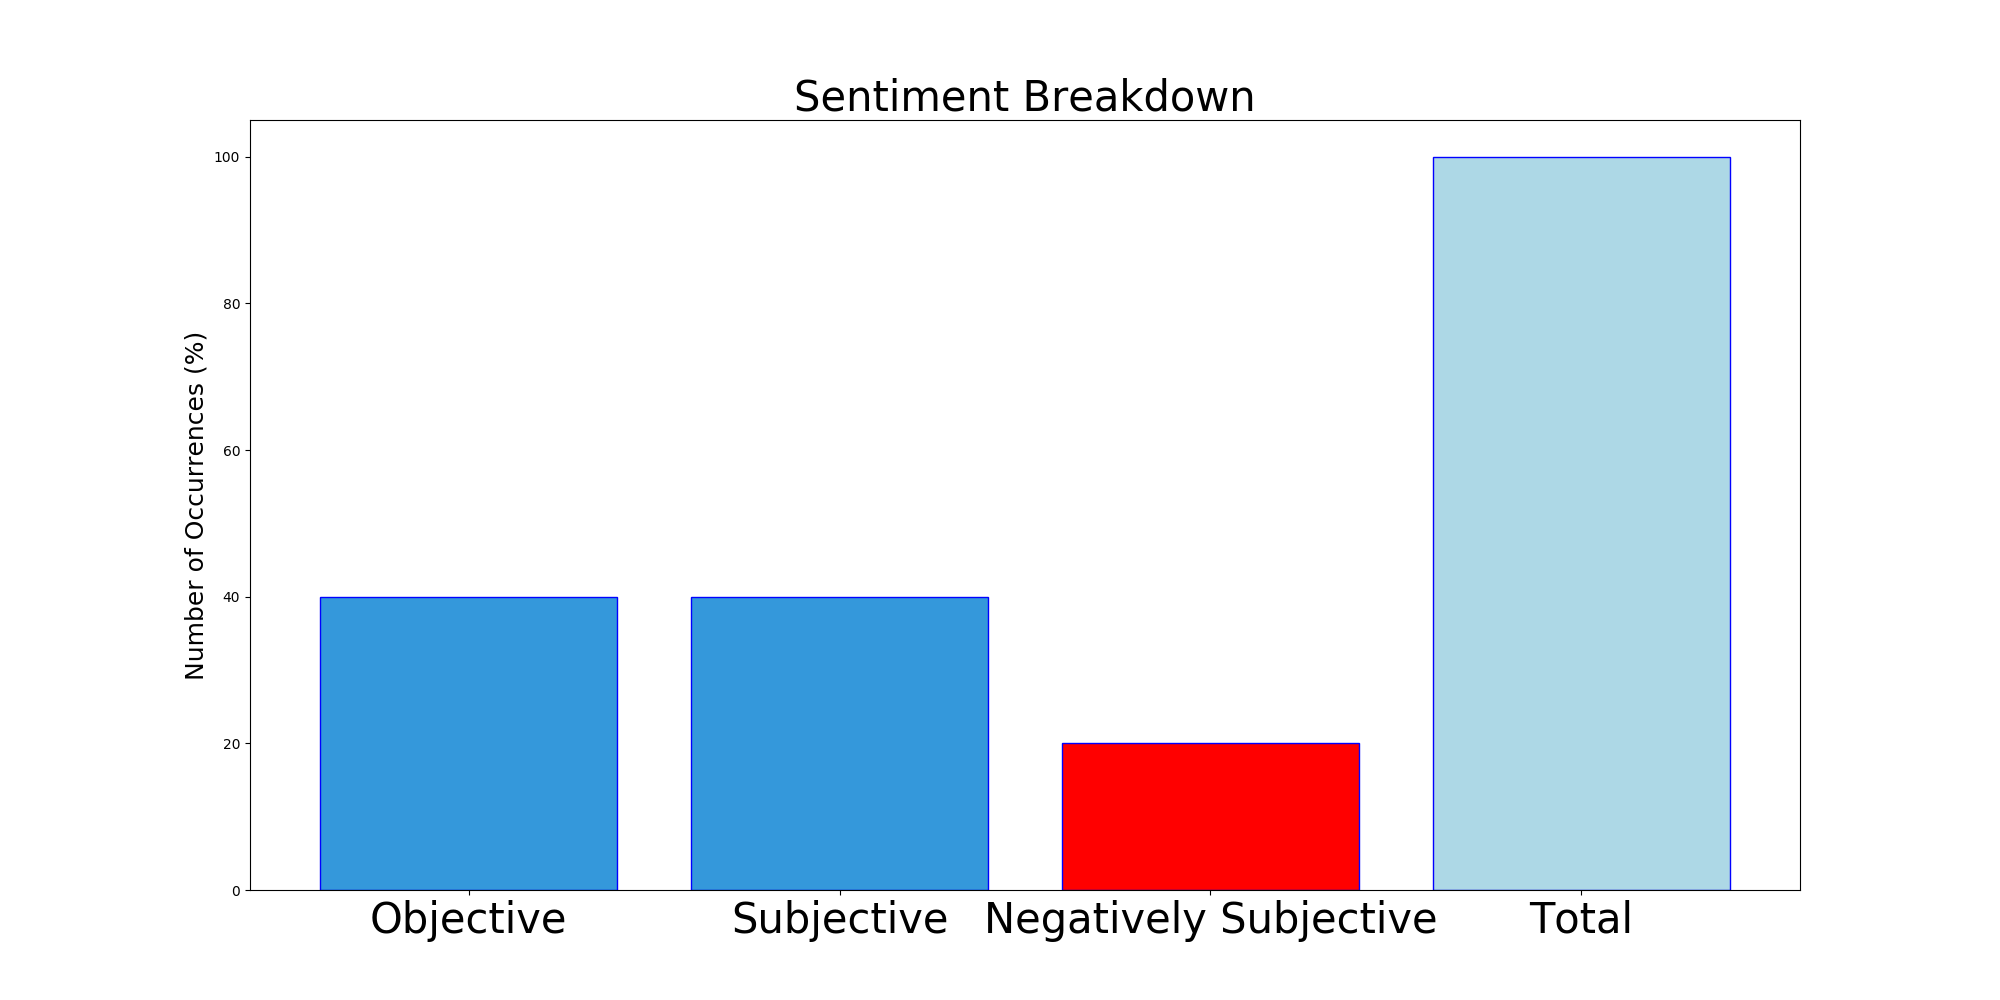
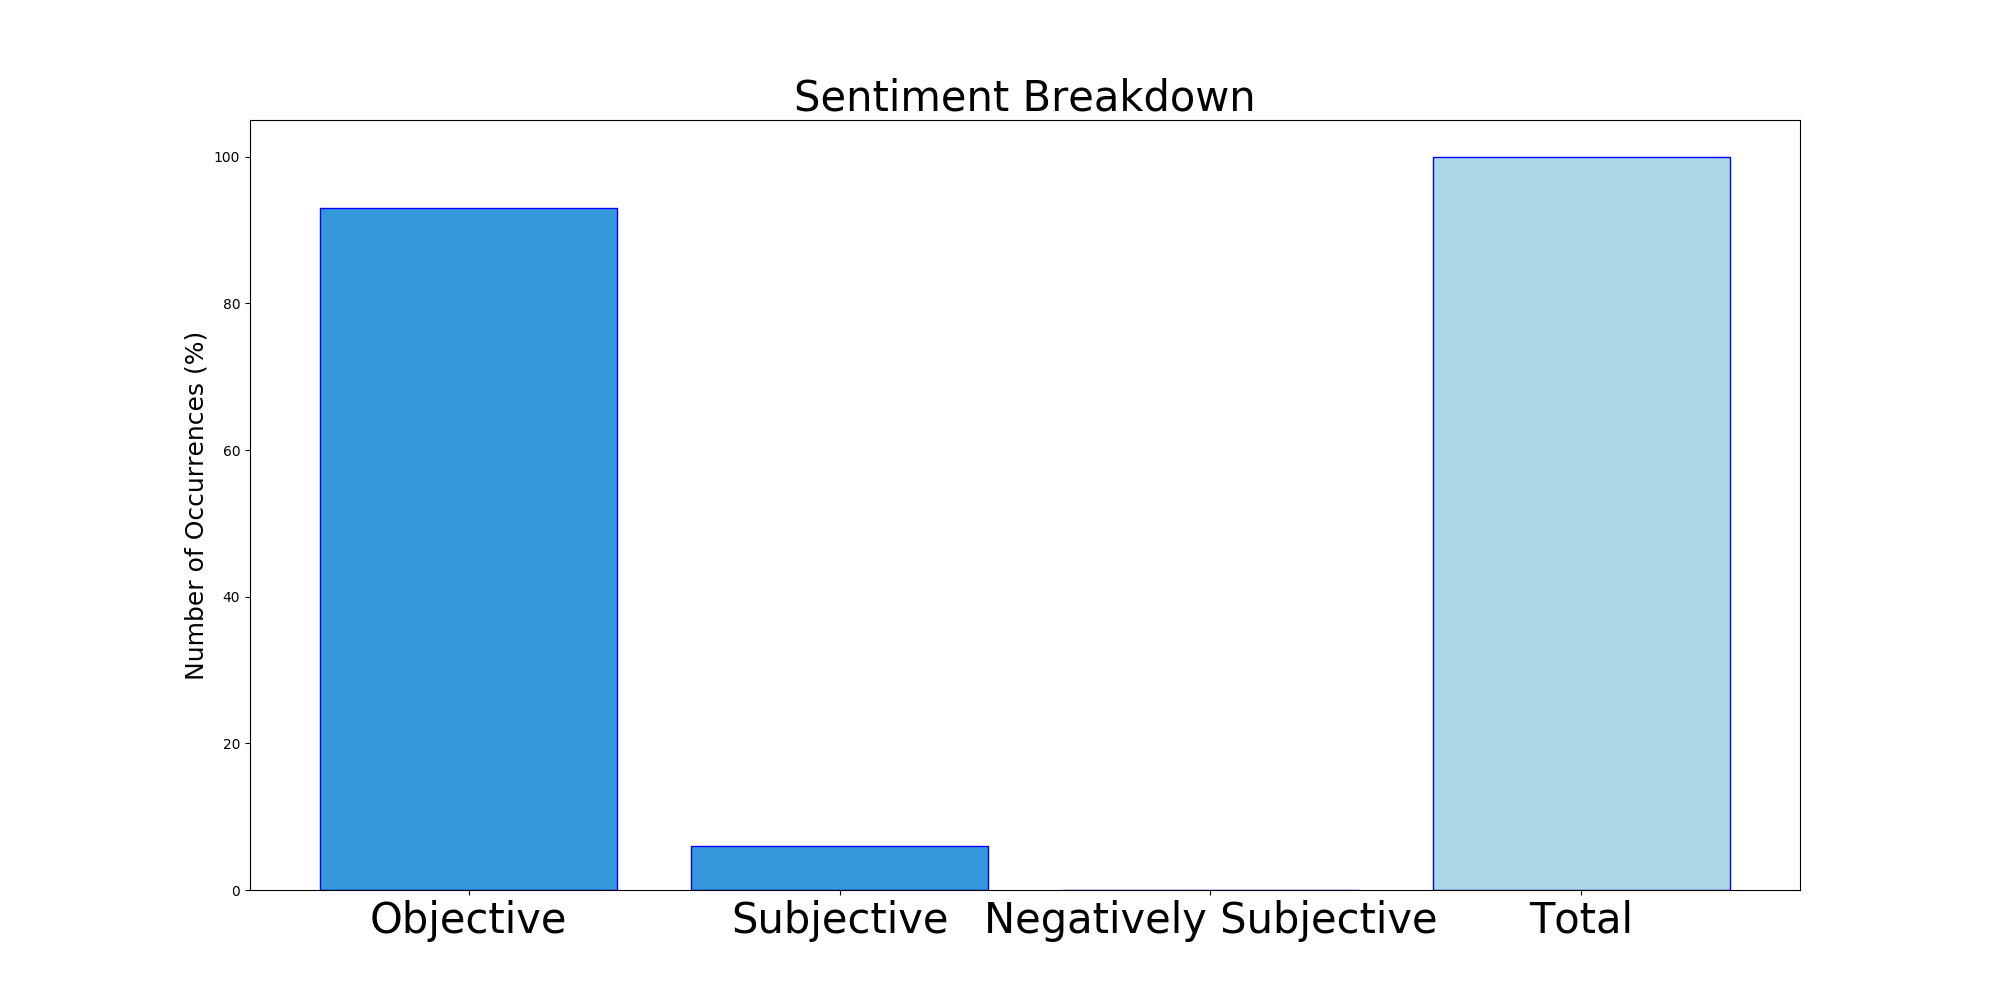
Updating with latest report

Changed region(s): [[0.155, 0.186, 0.31, 0.62], [0.341, 0.589, 0.496, 0.868], [0.527, 0.744, 0.682, 0.899]]

diff --git a/README.md b/README.md
@@ -1,5 +1,5 @@
 # MURCHIE85 TWITTER PROCESSING 
-&#x1F34E; **TOPIC = "Wilder"**
+&#x1F34E; **TOPIC = "realmadrid"**
 
 ## AUTOMATED RESEARCH SUMMARY
 
@@ -15,22 +15,22 @@
 
 |                **Sample-Tweets**        |
 | :-------------: |
-| RT @Tommyskizy: Tyson Fury wore this gumshield tonight in his match with Wilder. A message to Anthony Joshua?#Naija2ThaWorld https://t.co… |
-| RT @ElTelBoxing: Tyson Fury embarrassed Deontay Wilder by handing him a brutal beating for the duration of the fight.Please don't waste o… |
-| RT @kevinsylvestar: 😰😢😭 Jesus who I b! Who I b na! Who b me wey no go thank and praise You for wetin you don do for me 😭🙌🙏😥Fury Wilder Jo… |
+| RT @realmadriden: 🇧🇷🎁🇧🇷 Happy birthday to @Casemiro who turns 28 today!2⃣8⃣ Parabéns craque!#RealMadrid https://t.co/M9FL5mazEQ |
+| @realmadrid Zedan out |
+| @realmadrid @FC_Barcalona we love you 🤣🤣🤣🤣 |
 
-The most popular user is: **ryangoIdy8**
-<div class="alert alert-block alert-danger"> RT @BTSportBoxing: Tyson Fury spotted Deontay Wilder watching the same weigh-ins feed as him and mocked him 😂 #WilderFury2 https://t.co/muH…</div>
+The most popular user is: **realmadrid_wwe**
+<div class="alert alert-block alert-danger"> RT @ogug8: Apparently Michael Jackson isn't dead he's a wrestler in Brazil https://t.co/BJUDh1sbGT</div>
 
 ## RELATED METRICS<br>
 | Metric | Value |
 | ------------- | ------------- |
-| #1 Most tweeted to  | **KingOfContacts** |
-| #2 Most tweeted to  | **espn** |
-| #3 Most tweeted to  | **Tyson_Fury** |
-| NewProfiles (less than 10 days) | 0.66%  |
-| Tweeters with < 10 followers  | 3.24%|
-| Tweeters with > 1000000 followers  | 0.1%  |
+| #1 Most tweeted to  | **realmadrid** |
+| #2 Most tweeted to  | **LevanteUD** |
+| #3 Most tweeted to  | **realmadriden** |
+| NewProfiles (less than 10 days) | 1.78%  |
+| Tweeters with < 10 followers  | 6.6%|
+| Tweeters with > 1000000 followers  | 0.24%  |
 
 
 
@@ -39,28 +39,28 @@ The most popular user is: **ryangoIdy8**
 
 | Popularity Rank  | Term |
 | ------------- | ------------- |
-| first  | **WILDER**  |
-| second  | **FURY**  |
-| third  | **TYSON** |
-| fourth  | **DEONTAY**  |
-| fifth  | **FIGHT**  |
+| first  | **VS**  |
+| second  | **@REALMADRID**  |
+| third  | **GOAL** |
+| fourth  | **1**  |
+| fifth  | **GOALS**  |
 
 
 ## Twitter Bio Analysis![image](BIO.png)
 ### SENTIMENT ANALYSIS
 ![image](sentiment.png)
-VIEWS WERE : **SUBJECTIVE**  (40.0%) & **NEGATIVELY-SUBJECTIVE** (20.0%) **OBJECTIVE** (40.0%)
+VIEWS WERE : **SUBJECTIVE**  (6.67%) & **NEGATIVELY-SUBJECTIVE** (0.0%) **OBJECTIVE** (93.33%)
 
 ### TWEET SAMPLE 
 | Random value picked from array |
 | ------------- |
-|RT @MichaelBensonn: 🤜 How the boxing world reacted to Tyson Fury stopping Deontay Wilder… https://t.co/8OgeloHtzC |
+|RT @BarcaWorldwide: We went back to the top of the table 🔵🔴 |
 
 ### MOST RETWEETED 
 
-| The most retweeted user is: **ryangoIdy8**  |
+| The most retweeted user is: **realmadrid_wwe**  |
 | ------------- |
-| RT @BTSportBoxing: Tyson Fury spotted Deontay Wilder watching the same weigh-ins feed as him and mocked him 😂 #WilderFury2 https://t.co/muH… |
+| RT @ogug8: Apparently Michael Jackson isn't dead he's a wrestler in Brazil https://t.co/BJUDh1sbGT |
 
 ### CONCLUSION & EXTERNAL ANALYSIS
 
